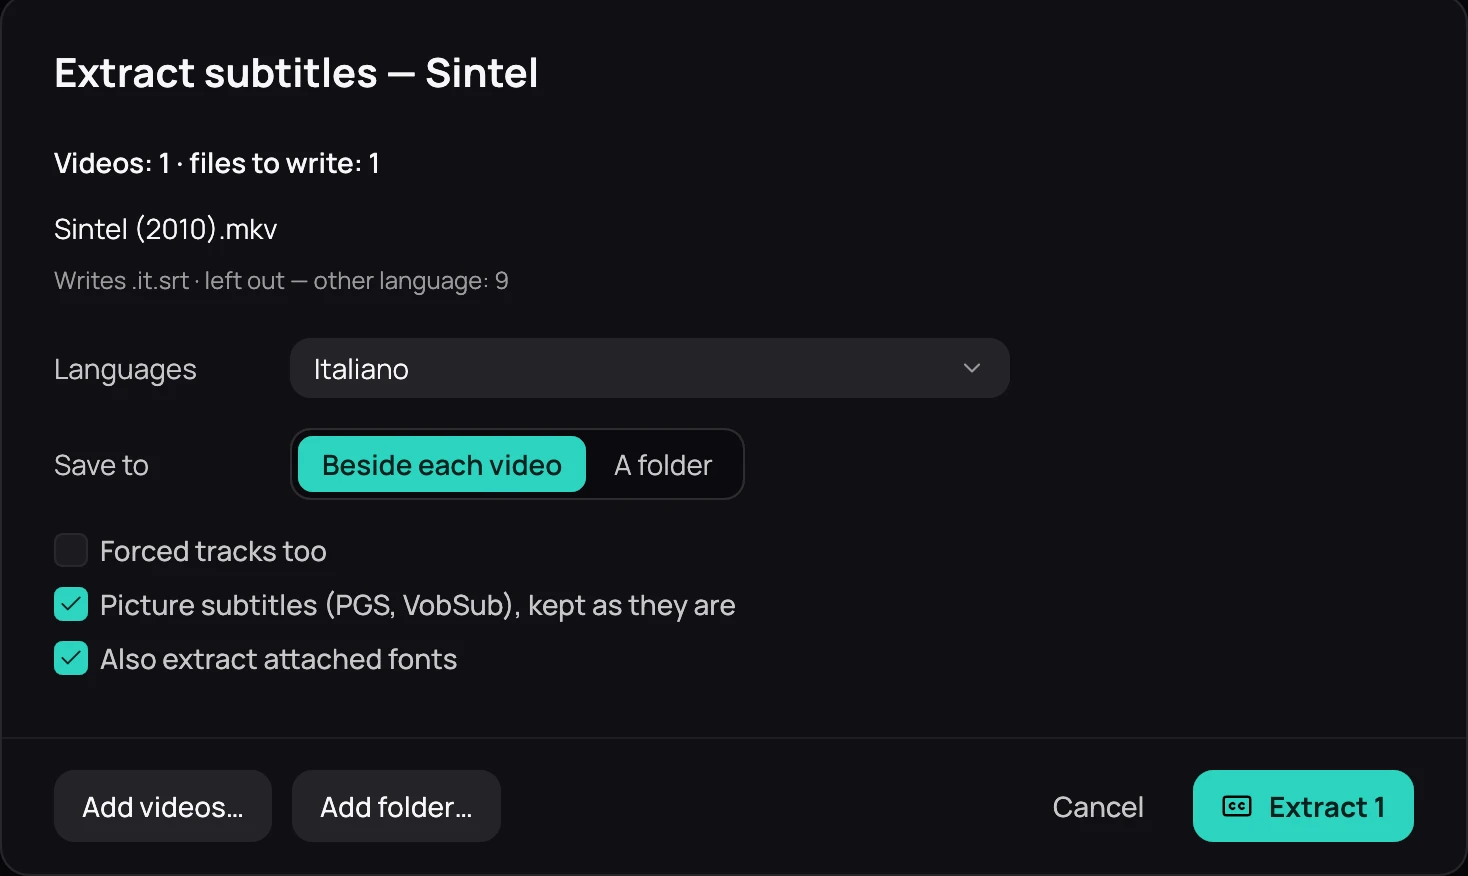
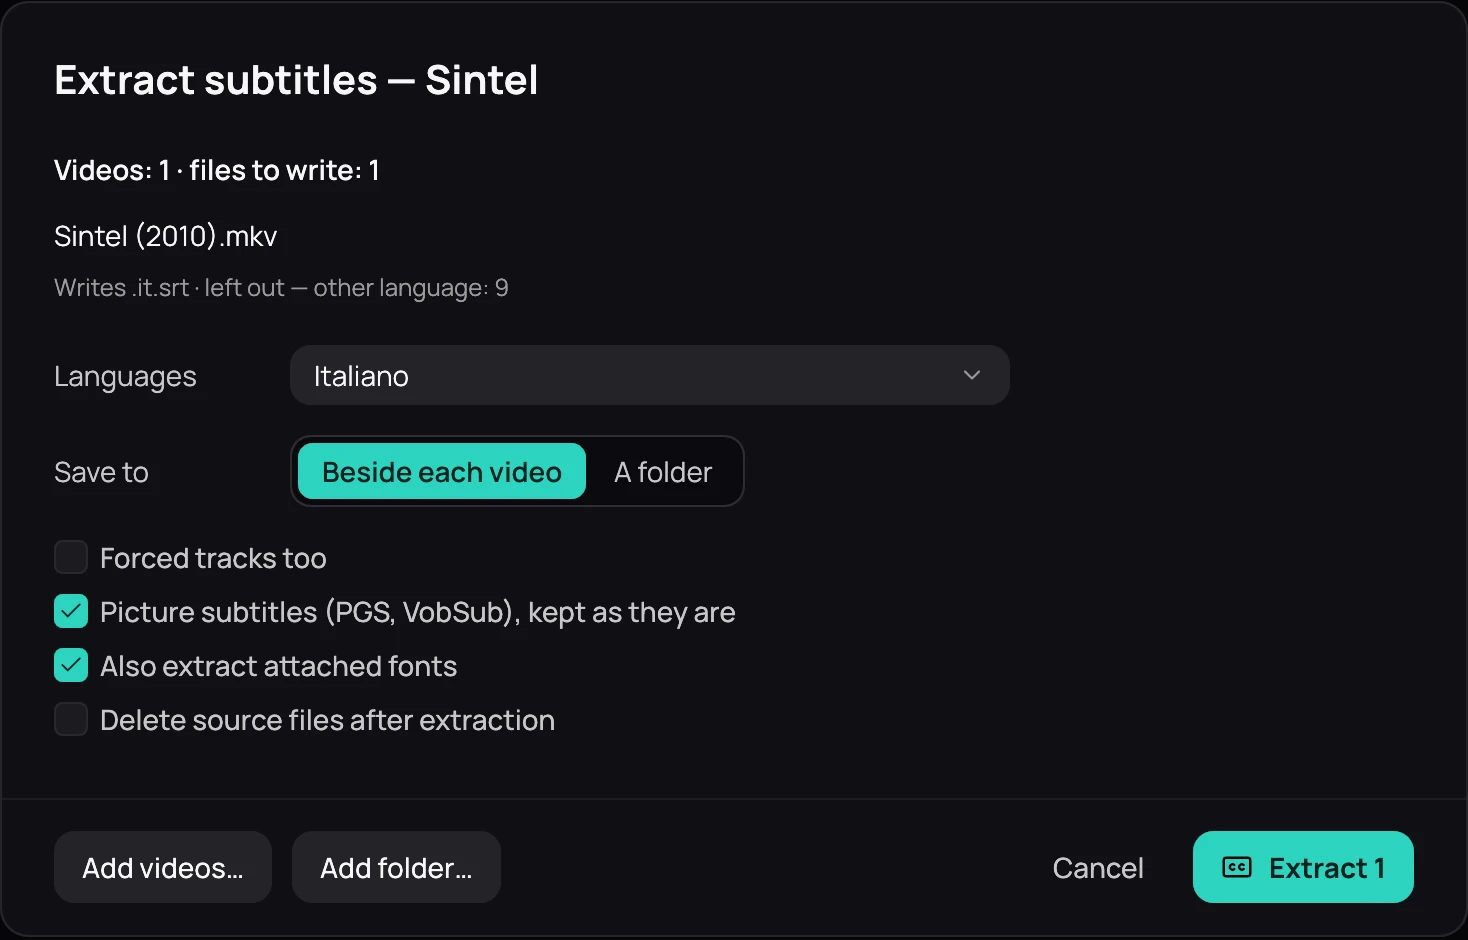
docs: sync user docs from kaveo@794490e

diff --git a/upstream/guide/subtitles/extract.md b/upstream/guide/subtitles/extract.md
@@ -28,3 +28,6 @@ Each track becomes its own file, in the format the video holds it, named after i
 - A file that already exists is never replaced: the new one gets a number, such as *Episode.2.it.ass*.
 - **Also extract attached fonts** puts the fonts a styled subtitle needs into a fonts folder beside the
   files.
+- **Delete source files after extraction** moves each video to the Trash once every subtitle chosen
+  for it was written and read back. You confirm first, and a video the library holds says so. Where
+  no Trash exists, a second question asks before deleting for good; **Keep the files** keeps them.
